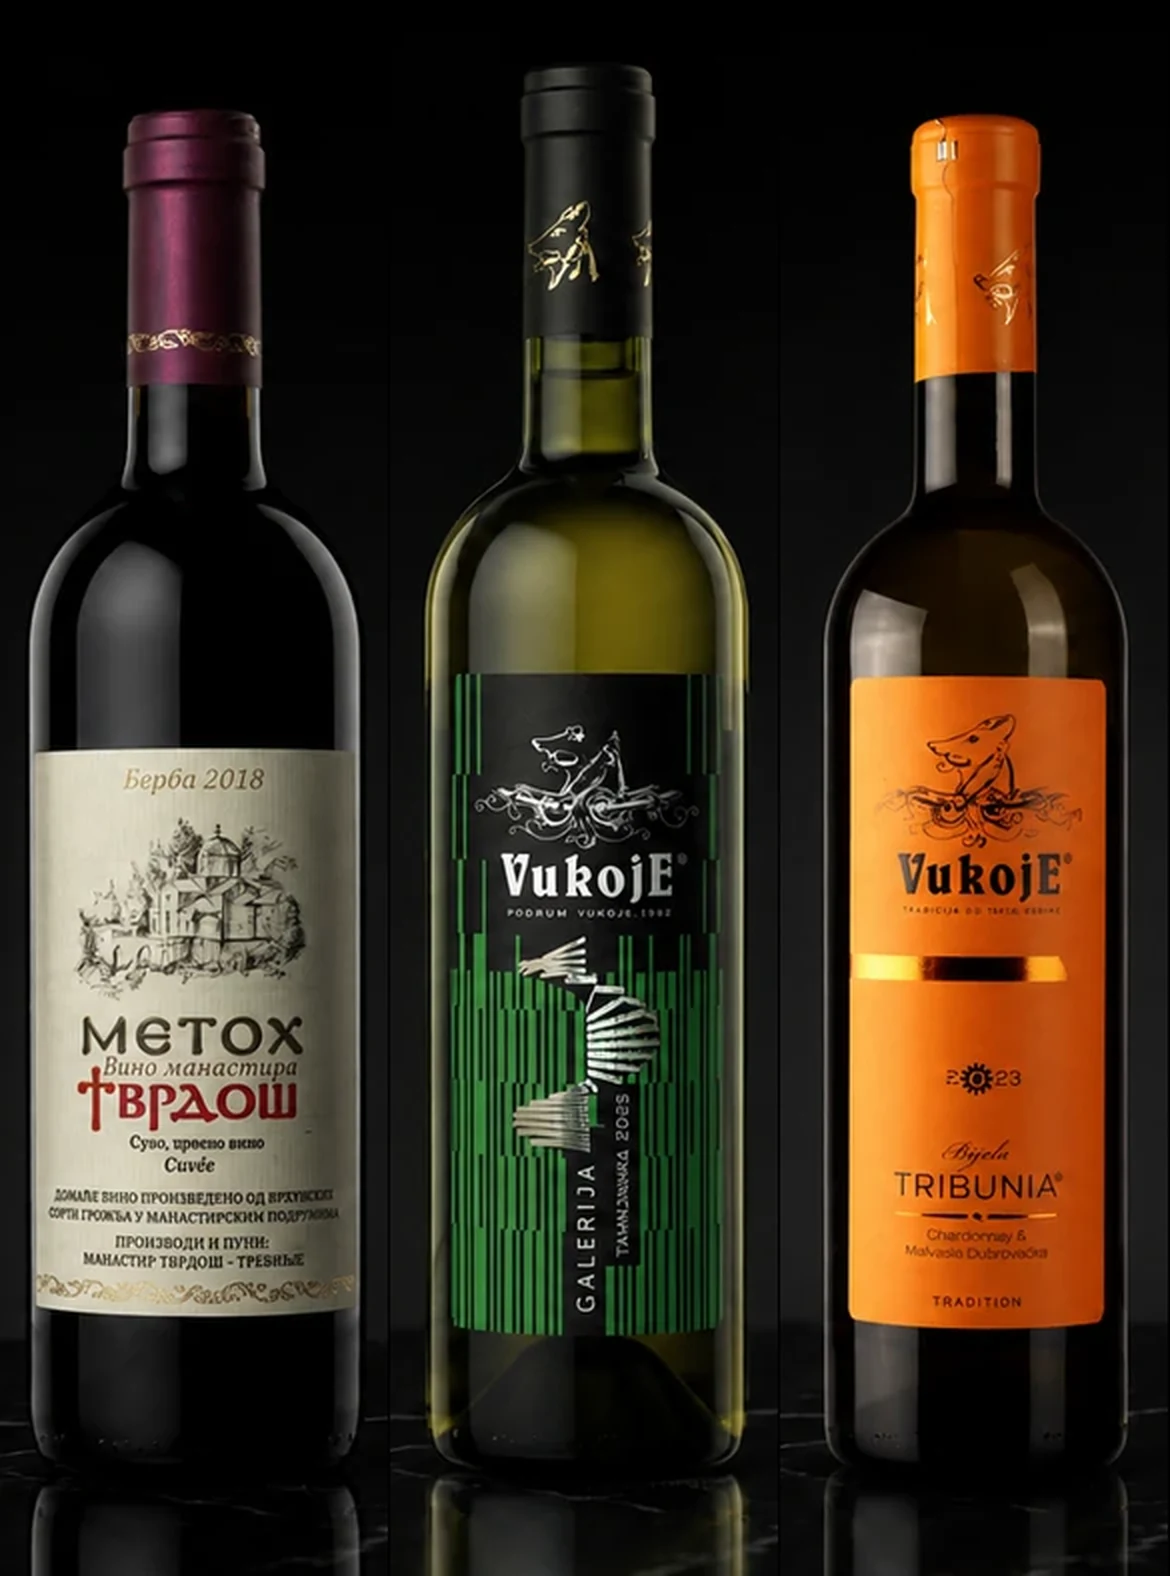
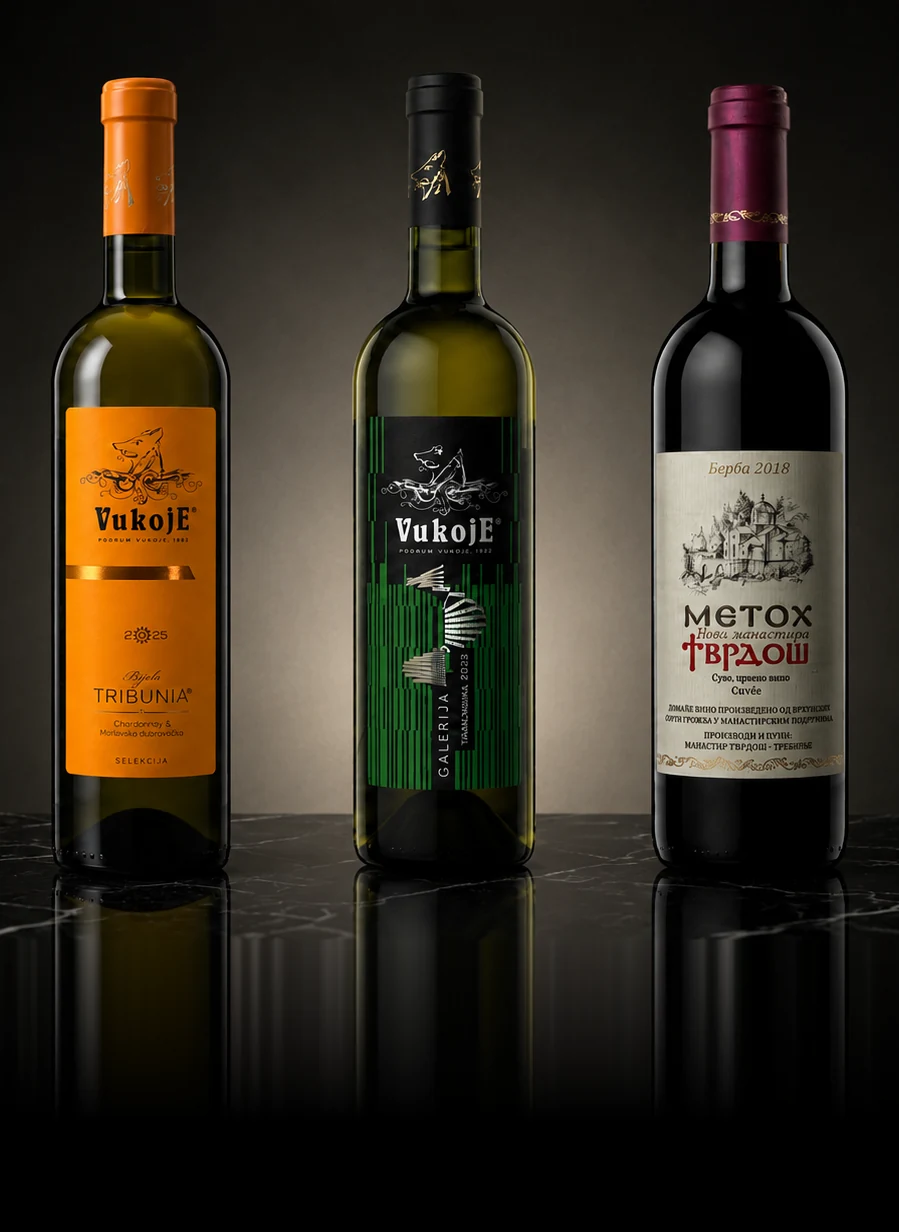
Use the real bundle photographs
The three shots supplied match the three bundles exactly, down to the black
Velika Selekcija being the wine the site lists as Zlatna Selekcija. They
replace the versions composed from the single-bottle shots.

Each is cropped from the original to the card's portrait proportion and the
frame extended downwards, fading to black, so the bottles sit in the part of
the card that is actually visible rather than behind the text. The added
strip falls under the scrim and never shows. Nothing in the photographs
themselves is altered.

Claude-Session: https://claude.ai/code/session_011vQZniodVgQxCMJtNf3cEn

diff --git a/index.html b/index.html
@@ -36,7 +36,7 @@
     <link rel="stylesheet"
       href="https://fonts.googleapis.com/css2?family=Cinzel:wght@400;600;700;900&family=Cormorant+Garamond:ital,wght@0,300;0,400;0,500;0,600;0,700;1,400;1,500;1,600&family=Lato:wght@300;400;700&display=swap">
   </noscript>
-  <link rel="stylesheet" href="styles.css?v=133">
+  <link rel="stylesheet" href="styles.css?v=135">
 
   <!-- Microsoft Clarity: session recordings and click heatmaps, project "Hercz Wines". -->
   <script type="text/javascript">
